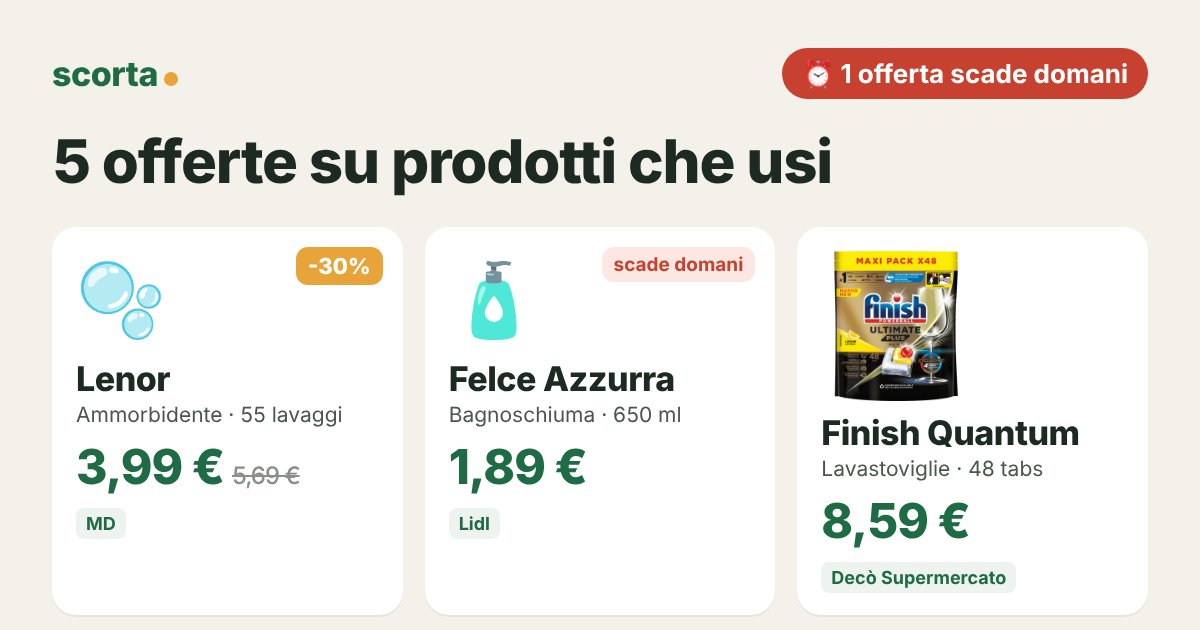
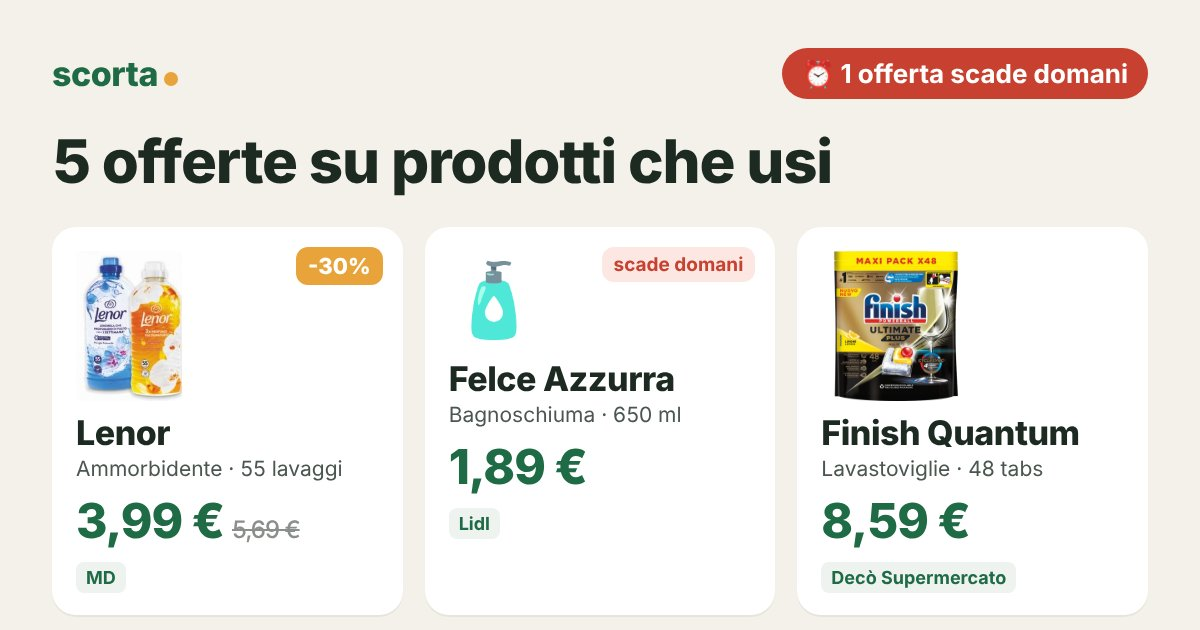
Pagine offerte 2026-11-03
Claude-Session: https://claude.ai/code/session_012BnByD7nnfoHswjF7TKs2L

Changed region(s): [[0.0617, 0.3921, 0.2775, 0.8746], [0.0617, 0.9048, 0.1233, 0.9349]]

diff --git a/o/82b8be9f/index.html b/o/82b8be9f/index.html
@@ -6,4 +6,4 @@
 <style>body{margin:0;font-family:-apple-system,system-ui,sans-serif;background:#F4F1EA;color:#1d2a22}main{max-width:560px;margin:auto;padding:16px}img{width:100%;border-radius:14px}
 ul{list-style:none;padding:0}li{display:flex;gap:10px;align-items:center;background:#fff;border-radius:12px;padding:10px 12px;margin:8px 0}.ic{font-size:26px}.th{width:44px;height:44px;object-fit:contain;background:#fff}li div:nth-child(2){flex:1}small{color:#6b746e}.pr{text-align:right;white-space:nowrap}s{color:#8a8f8b;font-size:13px}
 .btn{display:block;text-align:center;background:#1f6b45;color:#fff;font-weight:700;font-size:18px;padding:16px;border-radius:14px;text-decoration:none;margin:18px 0}.map{display:block;color:#1f6b45;margin:6px 0;text-decoration:none}</style></head>
-<body><main><img src="card.jpg" alt=""><a class="btn" href="https://tally.so/r/OQQV7k?f=F004&amp;a=A096,A097,A098,A099,A100,A101">✅ Segna cosa hai comprato</a><ul><li><span class=ic>🫧</span><div><b>Dash detersivo liquido 3x900 ml</b><br><small>Lidl · fino al 11/11</small></div><div class="pr"><b>8,99 €</b></div></li><li><span class=ic>🧴</span><div><b>Felce Azzurra bagnoschiuma 650 ml, -24%</b><br><small>Lidl · scade domani</small></div><div class="pr"><b>1,89 €</b></div></li><li><span class=ic>❄</span><div><b>Findus piselli novelli 1 kg</b><br><small>Lidl · fino al 11/11</small></div><div class="pr"><b>3,39 €</b></div></li><li><img class=th src=../../img/deco_74M07931P040_301.jpg><div><b>Finish Powerball Ultimate Plus 48 tabs</b><br><small>Decò Supermercato · fino al 12/11</small></div><div class="pr"><b>8,59 €</b></div></li><li><img class=th src=../../img/deco_74M07931P039_301.jpg><div><b>Foxy carta igienica Gran Trapuntata 4 veli 4 rotoli</b><br><small>Decò Supermercato · fino al 12/11</small></div><div class="pr"><b>1,99 €</b></div></li><li><span class=ic>🫧</span><div><b>Lenor ammorbidente risveglio primaverile / oro e fiori di vaniglia 55 lavaggi 1,155 l</b><br><small>MD · fino al 15/11</small></div><div class="pr"><s>5,69 €</s> <b>3,99 €</b></div></li></ul><a class="map" href="https://www.google.com/maps/search/?api=1&query=Lidl%20Via%20Giugliano%20Mugnano%2C%20137%20Villaricca">📍 Lidl · Via Giugliano Mugnano, 137, Villaricca</a><a class="map" href="https://www.google.com/maps/search/?api=1&query=Dec%C3%B2%20Supermercato%20Via%20Ernesto%20Che%20Guevara%2C%2036%20Marano%20di%20Napoli">📍 Decò Supermercato · Via Ernesto Che Guevara, 36, Marano di Napoli</a><a class="map" href="https://www.google.com/maps/search/?api=1&query=MD%20C.SO%20ITALIA%2055%20Marano%20di%20Napoli">📍 MD · C.SO ITALIA 55, Marano di Napoli</a><p><small>Prezzi e scadenze dai volantini delle insegne. Rispondi STOP su WhatsApp per non ricevere più avvisi.</small></p></main></body></html>
+<body><main><img src="card.jpg" alt=""><a class="btn" href="https://tally.so/r/OQQV7k?f=F004&amp;a=A096,A097,A098,A099,A100,A101">✅ Segna cosa hai comprato</a><ul><li><img class=th src=../../img/3583aabe01.jpg><div><b>Dash detersivo liquido 3x900 ml</b><br><small>Lidl · fino al 11/11</small></div><div class="pr"><b>8,99 €</b></div></li><li><span class=ic>🧴</span><div><b>Felce Azzurra bagnoschiuma 650 ml, -24%</b><br><small>Lidl · scade domani</small></div><div class="pr"><b>1,89 €</b></div></li><li><img class=th src=../../img/f97caf7f67.jpg><div><b>Findus piselli novelli 1 kg</b><br><small>Lidl · fino al 11/11</small></div><div class="pr"><b>3,39 €</b></div></li><li><img class=th src=../../img/deco_74M07931P040_301.jpg><div><b>Finish Powerball Ultimate Plus 48 tabs</b><br><small>Decò Supermercato · fino al 12/11</small></div><div class="pr"><b>8,59 €</b></div></li><li><img class=th src=../../img/deco_74M07931P039_301.jpg><div><b>Foxy carta igienica Gran Trapuntata 4 veli 4 rotoli</b><br><small>Decò Supermercato · fino al 12/11</small></div><div class="pr"><b>1,99 €</b></div></li><li><img class=th src=../../img/6ef2da3d5a.jpg><div><b>Lenor ammorbidente risveglio primaverile / oro e fiori di vaniglia 55 lavaggi 1,155 l</b><br><small>MD · fino al 15/11</small></div><div class="pr"><s>5,69 €</s> <b>3,99 €</b></div></li></ul><a class="map" href="https://www.google.com/maps/search/?api=1&query=Lidl%20Via%20Giugliano%20Mugnano%2C%20137%20Villaricca">📍 Lidl · Via Giugliano Mugnano, 137, Villaricca</a><a class="map" href="https://www.google.com/maps/search/?api=1&query=Dec%C3%B2%20Supermercato%20Via%20Ernesto%20Che%20Guevara%2C%2036%20Marano%20di%20Napoli">📍 Decò Supermercato · Via Ernesto Che Guevara, 36, Marano di Napoli</a><a class="map" href="https://www.google.com/maps/search/?api=1&query=MD%20C.SO%20ITALIA%2055%20Marano%20di%20Napoli">📍 MD · C.SO ITALIA 55, Marano di Napoli</a><p><small>Prezzi e scadenze dai volantini delle insegne. Rispondi STOP su WhatsApp per non ricevere più avvisi.</small></p></main></body></html>

diff --git a/o/39e07f55/index.html b/o/39e07f55/index.html
@@ -6,4 +6,4 @@
 <style>body{margin:0;font-family:-apple-system,system-ui,sans-serif;background:#F4F1EA;color:#1d2a22}main{max-width:560px;margin:auto;padding:16px}img{width:100%;border-radius:14px}
 ul{list-style:none;padding:0}li{display:flex;gap:10px;align-items:center;background:#fff;border-radius:12px;padding:10px 12px;margin:8px 0}.ic{font-size:26px}.th{width:44px;height:44px;object-fit:contain;background:#fff}li div:nth-child(2){flex:1}small{color:#6b746e}.pr{text-align:right;white-space:nowrap}s{color:#8a8f8b;font-size:13px}
 .btn{display:block;text-align:center;background:#1f6b45;color:#fff;font-weight:700;font-size:18px;padding:16px;border-radius:14px;text-decoration:none;margin:18px 0}.map{display:block;color:#1f6b45;margin:6px 0;text-decoration:none}</style></head>
-<body><main><img src="card.jpg" alt=""><a class="btn" href="https://tally.so/r/OQQV7k?f=F004&amp;a=A095,A096,A097,A098,A099">✅ Segna cosa hai comprato</a><ul><li><span class=ic>🧴</span><div><b>Felce Azzurra bagnoschiuma 650 ml, -24%</b><br><small>Lidl · scade domani</small></div><div class="pr"><b>1,89 €</b></div></li><li><img class=th src=../../img/deco_74M07931P040_301.jpg><div><b>Finish Powerball Ultimate Plus 48 tabs</b><br><small>Decò Supermercato · fino al 12/11</small></div><div class="pr"><b>8,59 €</b></div></li><li><img class=th src=../../img/deco_74M07931P039_301.jpg><div><b>Foxy carta igienica Gran Trapuntata 4 veli 4 rotoli</b><br><small>Decò Supermercato · fino al 12/11</small></div><div class="pr"><b>1,99 €</b></div></li><li><img class=th src=../../img/deco_74M07931P253_301.jpg><div><b>Findus pisellini primavera 1,2 kg</b><br><small>Decò Supermercato · fino al 12/11</small></div><div class="pr"><b>5,39 €</b></div></li><li><span class=ic>🫧</span><div><b>Lenor ammorbidente risveglio primaverile / oro e fiori di vaniglia 55 lavaggi 1,155 l</b><br><small>MD · fino al 15/11</small></div><div class="pr"><s>5,69 €</s> <b>3,99 €</b></div></li></ul><a class="map" href="https://www.google.com/maps/search/?api=1&query=Lidl%20Via%20Giugliano%20Mugnano%2C%20137%20Villaricca">📍 Lidl · Via Giugliano Mugnano, 137, Villaricca</a><a class="map" href="https://www.google.com/maps/search/?api=1&query=Dec%C3%B2%20Supermercato%20Via%20Ernesto%20Che%20Guevara%2C%2036%20Marano%20di%20Napoli">📍 Decò Supermercato · Via Ernesto Che Guevara, 36, Marano di Napoli</a><a class="map" href="https://www.google.com/maps/search/?api=1&query=MD%20C.SO%20ITALIA%2055%20Marano%20di%20Napoli">📍 MD · C.SO ITALIA 55, Marano di Napoli</a><p><small>Prezzi e scadenze dai volantini delle insegne. Rispondi STOP su WhatsApp per non ricevere più avvisi.</small></p></main></body></html>
+<body><main><img src="card.jpg" alt=""><a class="btn" href="https://tally.so/r/OQQV7k?f=F004&amp;a=A095,A096,A097,A098,A099">✅ Segna cosa hai comprato</a><ul><li><span class=ic>🧴</span><div><b>Felce Azzurra bagnoschiuma 650 ml, -24%</b><br><small>Lidl · scade domani</small></div><div class="pr"><b>1,89 €</b></div></li><li><img class=th src=../../img/deco_74M07931P040_301.jpg><div><b>Finish Powerball Ultimate Plus 48 tabs</b><br><small>Decò Supermercato · fino al 12/11</small></div><div class="pr"><b>8,59 €</b></div></li><li><img class=th src=../../img/deco_74M07931P039_301.jpg><div><b>Foxy carta igienica Gran Trapuntata 4 veli 4 rotoli</b><br><small>Decò Supermercato · fino al 12/11</small></div><div class="pr"><b>1,99 €</b></div></li><li><img class=th src=../../img/deco_74M07931P253_301.jpg><div><b>Findus pisellini primavera 1,2 kg</b><br><small>Decò Supermercato · fino al 12/11</small></div><div class="pr"><b>5,39 €</b></div></li><li><img class=th src=../../img/6ef2da3d5a.jpg><div><b>Lenor ammorbidente risveglio primaverile / oro e fiori di vaniglia 55 lavaggi 1,155 l</b><br><small>MD · fino al 15/11</small></div><div class="pr"><s>5,69 €</s> <b>3,99 €</b></div></li></ul><a class="map" href="https://www.google.com/maps/search/?api=1&query=Lidl%20Via%20Giugliano%20Mugnano%2C%20137%20Villaricca">📍 Lidl · Via Giugliano Mugnano, 137, Villaricca</a><a class="map" href="https://www.google.com/maps/search/?api=1&query=Dec%C3%B2%20Supermercato%20Via%20Ernesto%20Che%20Guevara%2C%2036%20Marano%20di%20Napoli">📍 Decò Supermercato · Via Ernesto Che Guevara, 36, Marano di Napoli</a><a class="map" href="https://www.google.com/maps/search/?api=1&query=MD%20C.SO%20ITALIA%2055%20Marano%20di%20Napoli">📍 MD · C.SO ITALIA 55, Marano di Napoli</a><p><small>Prezzi e scadenze dai volantini delle insegne. Rispondi STOP su WhatsApp per non ricevere più avvisi.</small></p></main></body></html>

diff --git a/o/0b4293fb/index.html b/o/0b4293fb/index.html
@@ -6,4 +6,4 @@
 <style>body{margin:0;font-family:-apple-system,system-ui,sans-serif;background:#F4F1EA;color:#1d2a22}main{max-width:560px;margin:auto;padding:16px}img{width:100%;border-radius:14px}
 ul{list-style:none;padding:0}li{display:flex;gap:10px;align-items:center;background:#fff;border-radius:12px;padding:10px 12px;margin:8px 0}.ic{font-size:26px}.th{width:44px;height:44px;object-fit:contain;background:#fff}li div:nth-child(2){flex:1}small{color:#6b746e}.pr{text-align:right;white-space:nowrap}s{color:#8a8f8b;font-size:13px}
 .btn{display:block;text-align:center;background:#1f6b45;color:#fff;font-weight:700;font-size:18px;padding:16px;border-radius:14px;text-decoration:none;margin:18px 0}.map{display:block;color:#1f6b45;margin:6px 0;text-decoration:none}</style></head>
-<body><main><img src="card.jpg" alt=""><a class="btn" href="https://tally.so/r/OQQV7k?f=F014&amp;a=A139,A140,A141">✅ Segna cosa hai comprato</a><ul><li><span class=ic>🍅</span><div><b>La Fiammante passata di pomodoro Dolcissima 690 g</b><br><small>Conad City · scade domani</small></div><div class="pr"><b>0,69 €</b></div></li><li><span class=ic>🫧</span><div><b>Dash detersivo liquido 3x900 ml</b><br><small>Lidl · fino al 11/11</small></div><div class="pr"><b>8,99 €</b></div></li><li><span class=ic>🥛</span><div><b>Parmalat Zymil latte UHT senza lattosio bottiglia 1 l</b><br><small>MD · fino al 15/11</small></div><div class="pr"><s>1,89 €</s> <b>1,59 €</b></div></li></ul><a class="map" href="https://www.google.com/maps/search/?api=1&query=Conad%20City%20Via%20Napoli%2037%20Mugnano%20di%20Napoli">📍 Conad City · Via Napoli 37, Mugnano di Napoli</a><a class="map" href="https://www.google.com/maps/search/?api=1&query=Lidl%20Via%20Giugliano%20Mugnano%2C%20137%20Villaricca">📍 Lidl · Via Giugliano Mugnano, 137, Villaricca</a><a class="map" href="https://www.google.com/maps/search/?api=1&query=MD%20CORSO%20ITALIA%2065%20Mugnano%20di%20Napoli">📍 MD · CORSO ITALIA 65, Mugnano di Napoli</a><p><small>Prezzi e scadenze dai volantini delle insegne. Rispondi STOP su WhatsApp per non ricevere più avvisi.</small></p></main></body></html>
+<body><main><img src="card.jpg" alt=""><a class="btn" href="https://tally.so/r/OQQV7k?f=F014&amp;a=A139,A140,A141">✅ Segna cosa hai comprato</a><ul><li><span class=ic>🍅</span><div><b>La Fiammante passata di pomodoro Dolcissima 690 g</b><br><small>Conad City · scade domani</small></div><div class="pr"><b>0,69 €</b></div></li><li><img class=th src=../../img/3583aabe01.jpg><div><b>Dash detersivo liquido 3x900 ml</b><br><small>Lidl · fino al 11/11</small></div><div class="pr"><b>8,99 €</b></div></li><li><span class=ic>🥛</span><div><b>Parmalat Zymil latte UHT senza lattosio bottiglia 1 l</b><br><small>MD · fino al 15/11</small></div><div class="pr"><s>1,89 €</s> <b>1,59 €</b></div></li></ul><a class="map" href="https://www.google.com/maps/search/?api=1&query=Conad%20City%20Via%20Napoli%2037%20Mugnano%20di%20Napoli">📍 Conad City · Via Napoli 37, Mugnano di Napoli</a><a class="map" href="https://www.google.com/maps/search/?api=1&query=Lidl%20Via%20Giugliano%20Mugnano%2C%20137%20Villaricca">📍 Lidl · Via Giugliano Mugnano, 137, Villaricca</a><a class="map" href="https://www.google.com/maps/search/?api=1&query=MD%20CORSO%20ITALIA%2065%20Mugnano%20di%20Napoli">📍 MD · CORSO ITALIA 65, Mugnano di Napoli</a><p><small>Prezzi e scadenze dai volantini delle insegne. Rispondi STOP su WhatsApp per non ricevere più avvisi.</small></p></main></body></html>

diff --git a/o/31a20aea/index.html b/o/31a20aea/index.html
@@ -6,4 +6,4 @@
 <style>body{margin:0;font-family:-apple-system,system-ui,sans-serif;background:#F4F1EA;color:#1d2a22}main{max-width:560px;margin:auto;padding:16px}img{width:100%;border-radius:14px}
 ul{list-style:none;padding:0}li{display:flex;gap:10px;align-items:center;background:#fff;border-radius:12px;padding:10px 12px;margin:8px 0}.ic{font-size:26px}.th{width:44px;height:44px;object-fit:contain;background:#fff}li div:nth-child(2){flex:1}small{color:#6b746e}.pr{text-align:right;white-space:nowrap}s{color:#8a8f8b;font-size:13px}
 .btn{display:block;text-align:center;background:#1f6b45;color:#fff;font-weight:700;font-size:18px;padding:16px;border-radius:14px;text-decoration:none;margin:18px 0}.map{display:block;color:#1f6b45;margin:6px 0;text-decoration:none}</style></head>
-<body><main><img src="card.jpg" alt=""><a class="btn" href="https://tally.so/r/OQQV7k?f=T001&amp;a=A083,A084,A085">✅ Segna cosa hai comprato</a><ul><li><span class=ic>🫧</span><div><b>Dash detersivo liquido 3x900 ml</b><br><small>Lidl · fino al 11/11</small></div><div class="pr"><b>8,99 €</b></div></li><li><img class=th src=../../img/deco_74M07931P004_301.jpg><div><b>Rummo pasta di semola varie trafile 500 g</b><br><small>Decò Supermercato · fino al 12/11</small></div><div class="pr"><b>0,69 €</b></div></li><li><img class=th src=../../img/L027.jpg><div><b>Mutti passata di pomodoro 700 g</b><br><small>Decò Supermercato · fino al 12/11</small></div><div class="pr"><b>1,00 €</b></div></li></ul><a class="map" href="https://www.google.com/maps/search/?api=1&query=Lidl%20Via%20Giugliano%20Mugnano%2C%20137%20Villaricca">📍 Lidl · Via Giugliano Mugnano, 137, Villaricca</a><a class="map" href="https://www.google.com/maps/search/?api=1&query=Dec%C3%B2%20Supermercato%20Via%20Ernesto%20Che%20Guevara%2C%2036%20Marano%20di%20Napoli">📍 Decò Supermercato · Via Ernesto Che Guevara, 36, Marano di Napoli</a><p><small>Prezzi e scadenze dai volantini delle insegne. Rispondi STOP su WhatsApp per non ricevere più avvisi.</small></p></main></body></html>
+<body><main><img src="card.jpg" alt=""><a class="btn" href="https://tally.so/r/OQQV7k?f=T001&amp;a=A083,A084,A085">✅ Segna cosa hai comprato</a><ul><li><img class=th src=../../img/3583aabe01.jpg><div><b>Dash detersivo liquido 3x900 ml</b><br><small>Lidl · fino al 11/11</small></div><div class="pr"><b>8,99 €</b></div></li><li><img class=th src=../../img/deco_74M07931P004_301.jpg><div><b>Rummo pasta di semola varie trafile 500 g</b><br><small>Decò Supermercato · fino al 12/11</small></div><div class="pr"><b>0,69 €</b></div></li><li><img class=th src=../../img/L027.jpg><div><b>Mutti passata di pomodoro 700 g</b><br><small>Decò Supermercato · fino al 12/11</small></div><div class="pr"><b>1,00 €</b></div></li></ul><a class="map" href="https://www.google.com/maps/search/?api=1&query=Lidl%20Via%20Giugliano%20Mugnano%2C%20137%20Villaricca">📍 Lidl · Via Giugliano Mugnano, 137, Villaricca</a><a class="map" href="https://www.google.com/maps/search/?api=1&query=Dec%C3%B2%20Supermercato%20Via%20Ernesto%20Che%20Guevara%2C%2036%20Marano%20di%20Napoli">📍 Decò Supermercato · Via Ernesto Che Guevara, 36, Marano di Napoli</a><p><small>Prezzi e scadenze dai volantini delle insegne. Rispondi STOP su WhatsApp per non ricevere più avvisi.</small></p></main></body></html>
